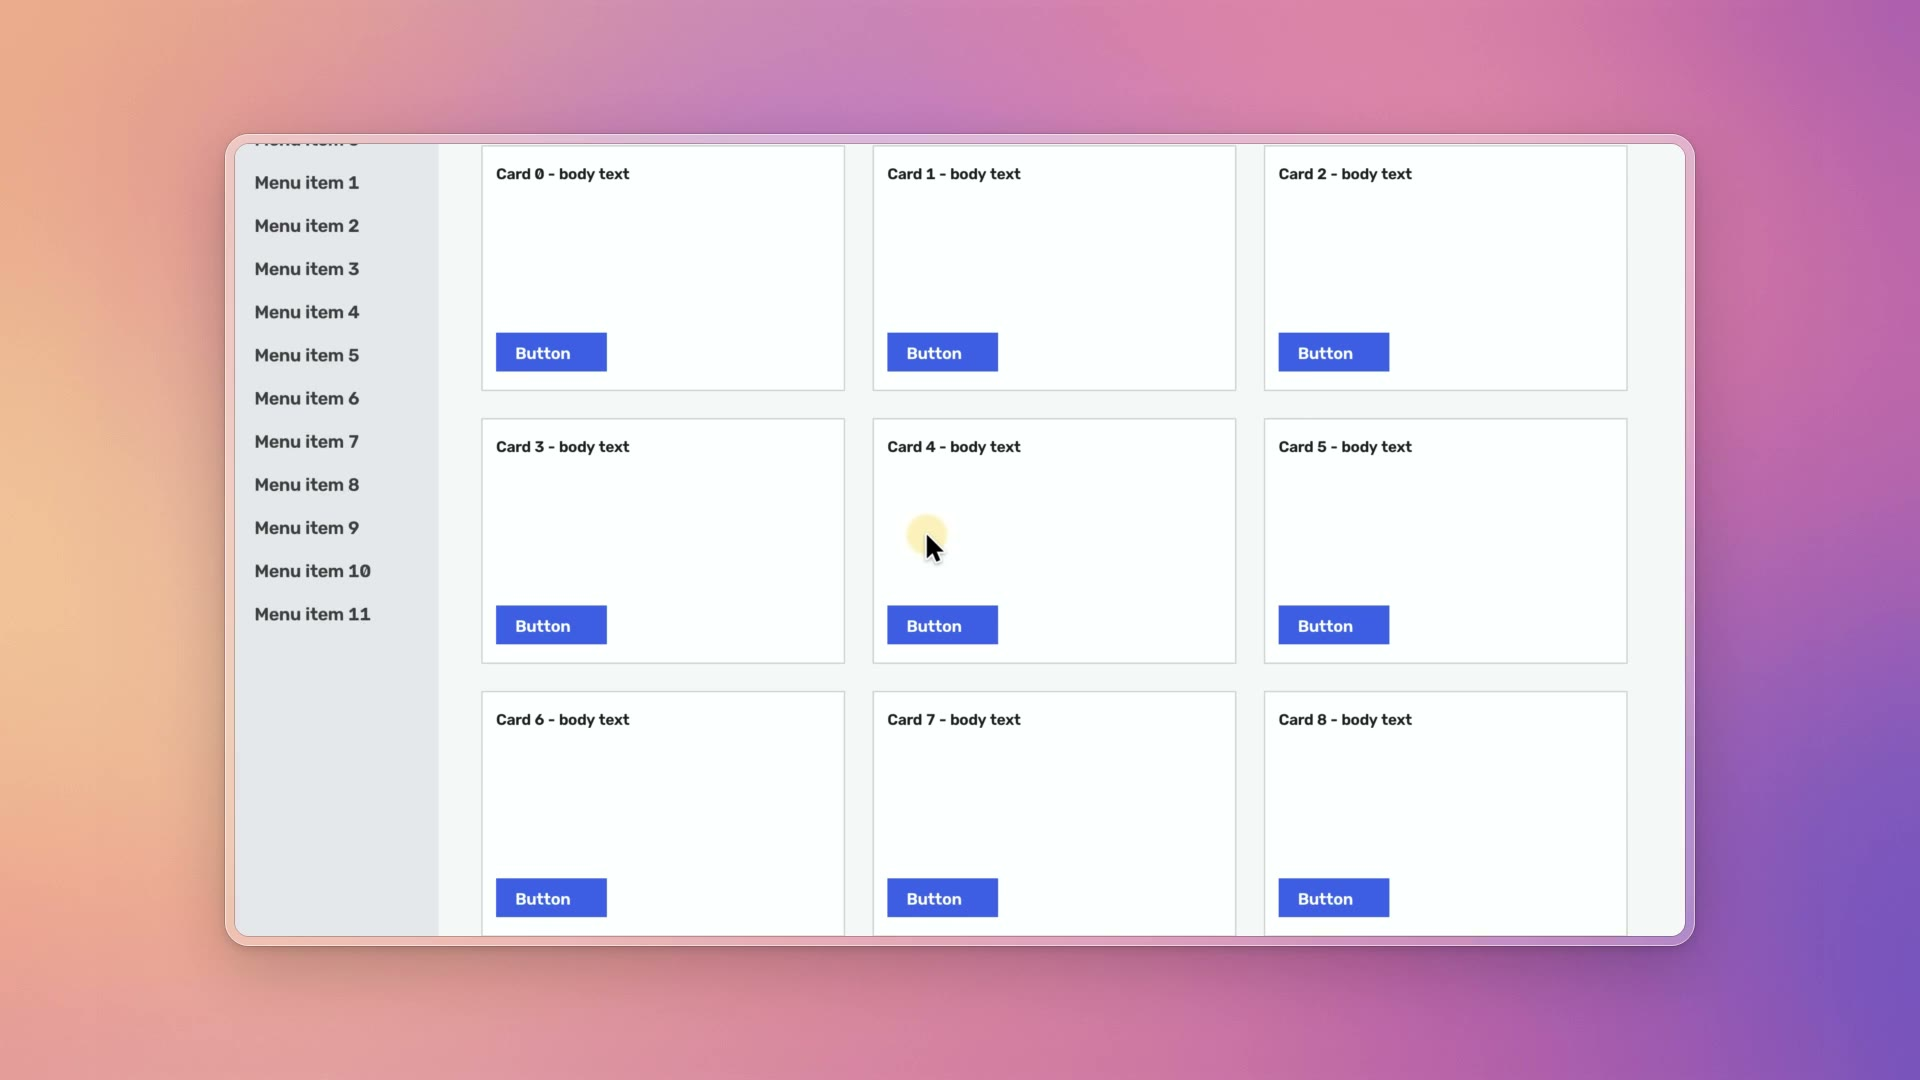
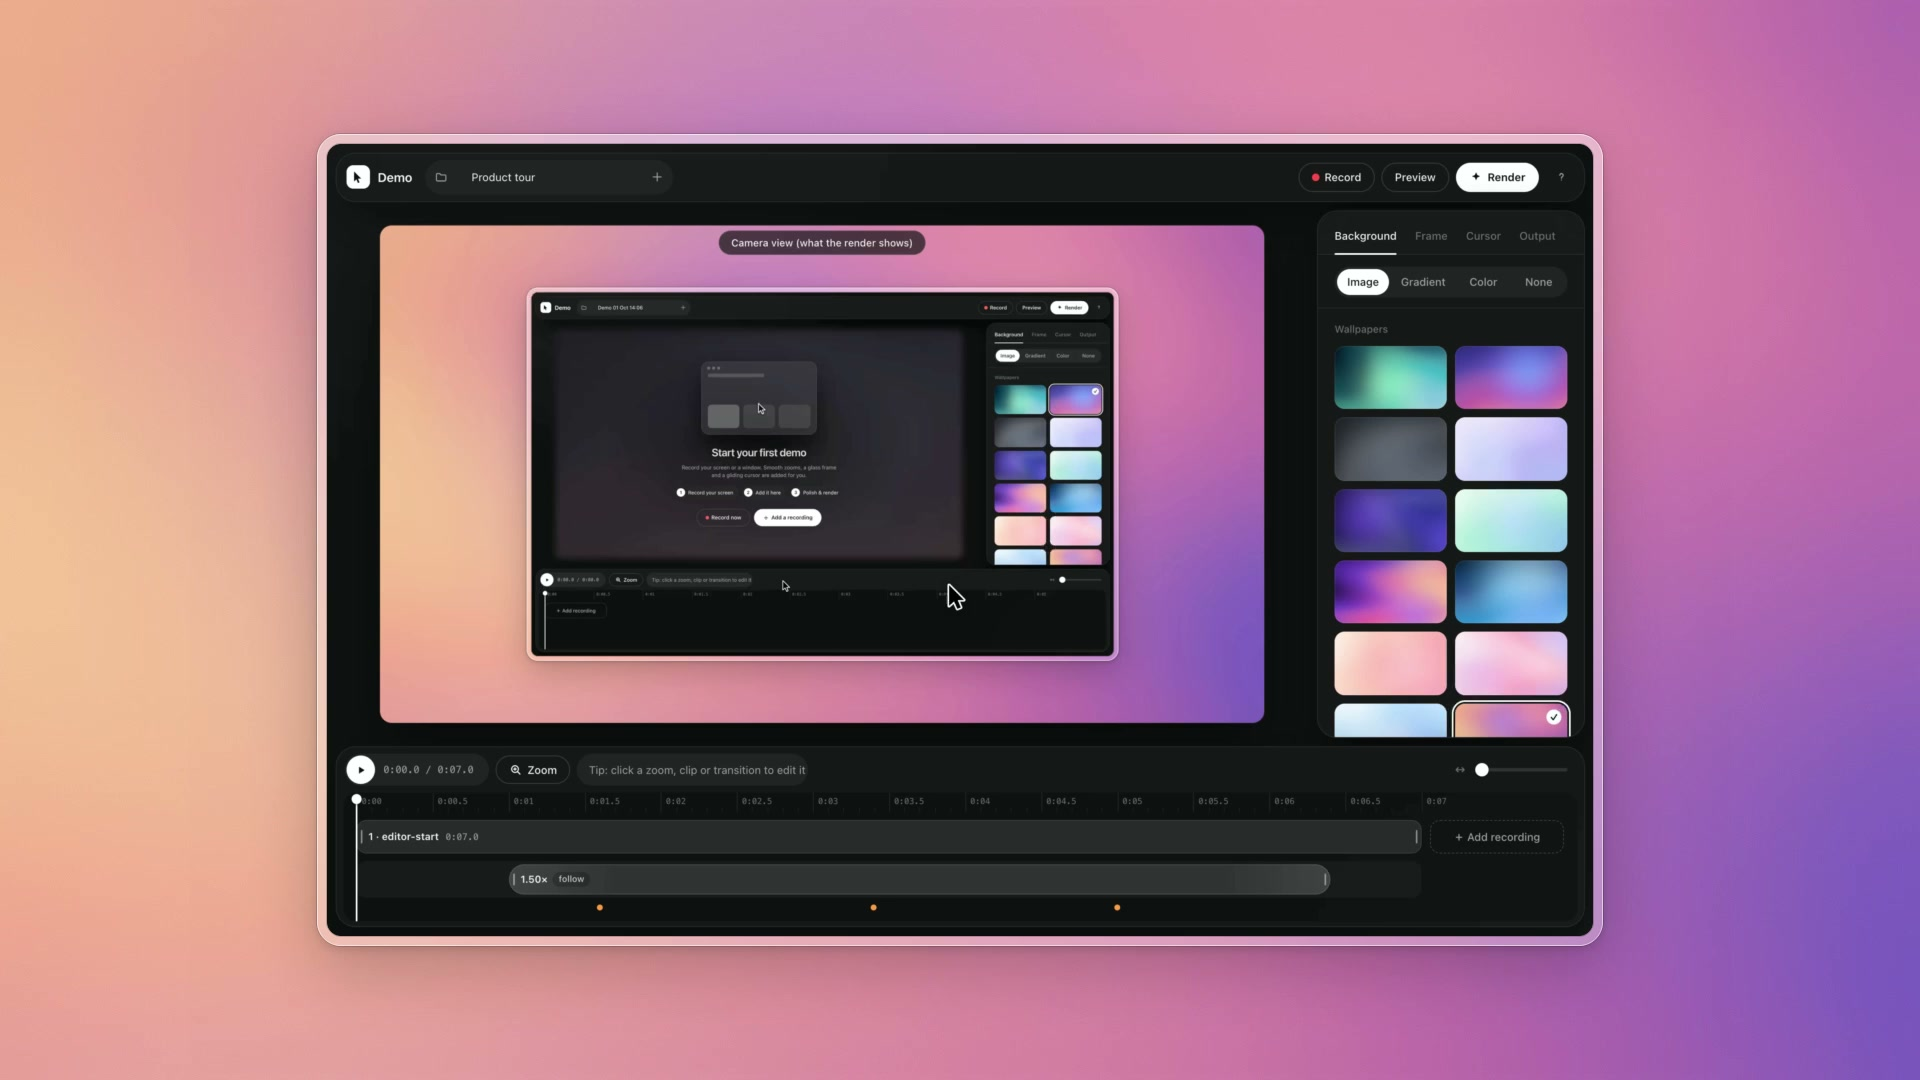
Refresh README screenshots with the real editor
The demo shown in every image is the editor itself (recorded, framed and zoomed by
demo-recorder), instead of a mock website. Adds a Record dialog screenshot.

diff --git a/README.md b/README.md
@@ -6,11 +6,12 @@ Record your screen, and demo-recorder turns it into a smooth demo video. The cam
 what you click, the cursor glides, and your recording sits in a glass frame on a soft wallpaper.
 It's the "auto zoom" look of paid screen recorders, running entirely on your Mac.
 
-![A finished demo frame: the recording in a glass frame on a gradient wallpaper](docs/render.jpg)
+![The editor: live preview of the framed recording, settings panel and timeline](docs/editor.jpg)
 
 <table><tr>
-<td><img src="docs/render-zoomed.jpg" alt="The camera zoomed in on a click"></td>
-<td><img src="docs/editor.png" alt="The editor: live preview, settings panel and timeline"></td>
+<td width="33%"><img src="docs/render-zoomed.jpg" alt="The camera zoomed in on a click"><br><sub>The camera eases in on what you click</sub></td>
+<td width="33%"><img src="docs/render.jpg" alt="A finished frame on a soft wallpaper"><br><sub>Glass frame on a generated wallpaper</sub></td>
+<td width="33%"><img src="docs/record.jpg" alt="The Record dialog: choose your entire screen or a window"><br><sub>Record a screen or a single window</sub></td>
 </tr></table>
 
 ## Features
